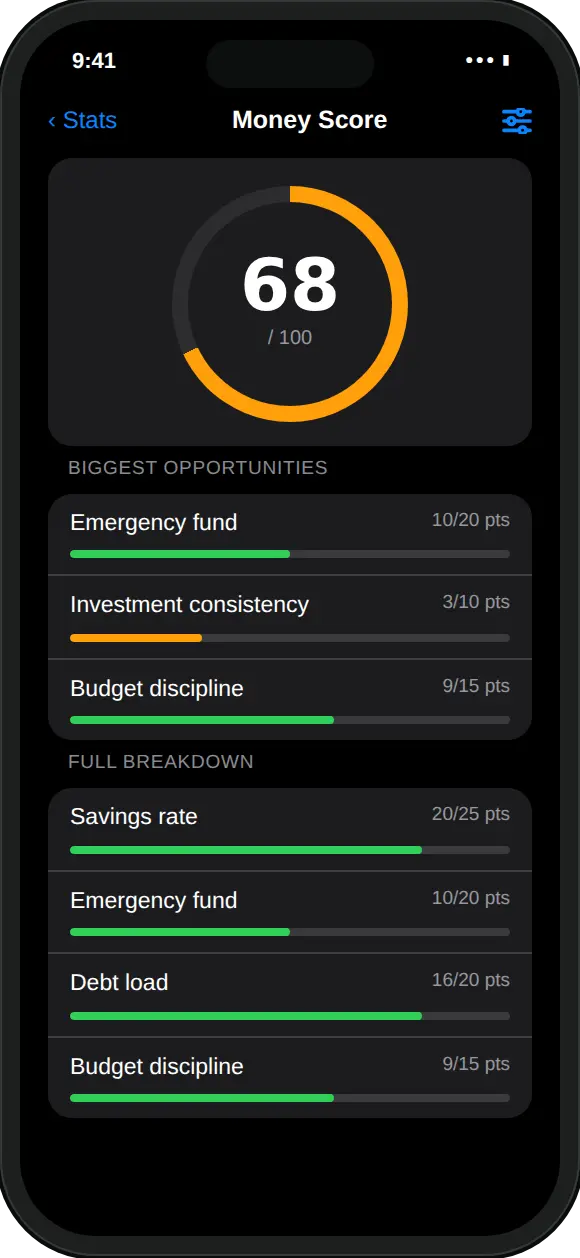
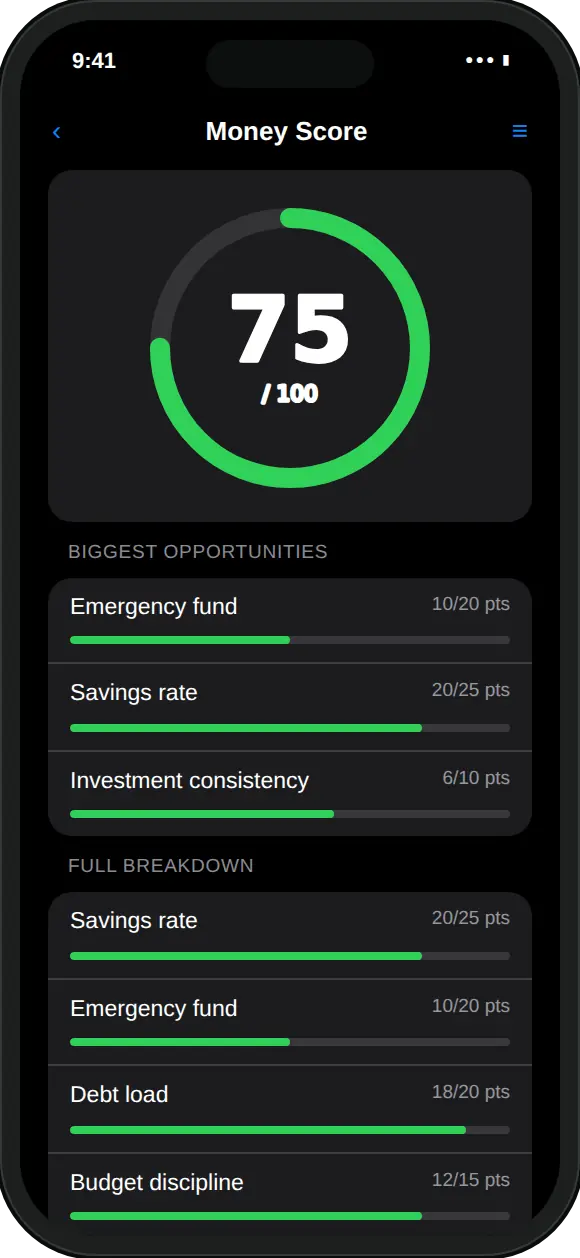
Draft: Your Money Score, what it means and how it is worked out
Claude-Session: https://claude.ai/code/session_01YE2ofZLGiWgQhZvip5Uiy9

diff --git a/blog/money-score-explained.html b/blog/money-score-explained.html
@@ -1,0 +1,345 @@
+<!doctype html>
+<html lang="en-IN">
+<head>
+<meta charset="utf-8">
+<meta name="viewport" content="width=device-width, initial-scale=1">
+<!-- Google tag (gtag.js): website visit counts only. The MoneyOS app itself sends nothing. -->
+<script async src="https://www.googletagmanager.com/gtag/js?id=G-3WFNCXSXRG"></script>
+<script>
+  window.dataLayer = window.dataLayer || [];
+  function gtag(){dataLayer.push(arguments);}
+  gtag('js', new Date());
+  gtag('config', 'G-3WFNCXSXRG');
+</script>
+<title>Money Score: What It Means and How It Is Worked Out</title>
+<meta name="description" content="What the Money Score in MoneyOS measures, the six parts behind it, how each part earns its points, and why it is a fixed formula, not a credit score.">
+<meta name="keywords" content="money score app, money score meaning, financial health score, personal finance score, money score calculation">
+<meta name="robots" content="index, follow, max-image-preview:large">
+<meta name="author" content="MoneyOS">
+<meta name="theme-color" content="#000000">
+<meta name="apple-itunes-app" content="app-id=6796755497">
+
+<link rel="canonical" href="https://rohithhn.github.io/moneyos-site/blog/money-score-explained.html">
+<meta property="og:type" content="article">
+<meta property="og:url" content="https://rohithhn.github.io/moneyos-site/blog/money-score-explained.html">
+<meta property="og:site_name" content="MoneyOS">
+<meta property="og:title" content="Your Money Score: what it means and how it is worked out">
+<meta property="og:description" content="The six parts behind the Money Score, how each earns its points, and why the number comes from a fixed formula on your iPhone.">
+<meta property="og:image" content="https://rohithhn.github.io/moneyos-site/img/blog/og-money-score-explained.jpg">
+<meta property="og:image:width" content="1200">
+<meta property="og:image:height" content="630">
+<meta property="og:image:alt" content="MoneyOS Money Score of 75 out of 100, with Emergency fund, Savings rate and Investment consistency listed as the biggest opportunities">
+<meta property="article:published_time" content="2026-10-31">
+<meta name="twitter:card" content="summary_large_image">
+<meta name="twitter:image" content="https://rohithhn.github.io/moneyos-site/img/blog/og-money-score-explained.jpg">
+<meta name="twitter:title" content="Your Money Score: what it means and how it is worked out">
+<meta name="twitter:description" content="Six parts, one number out of 100, worked out on your iPhone.">
+
+<link rel="icon" type="image/png" href="../img/favicon.png">
+<link rel="apple-touch-icon" href="../img/apple-touch-icon.png">
+<link rel="stylesheet" href="../style.css">
+
+<script type="application/ld+json">
+{
+  "@context": "https://schema.org",
+  "@graph": [
+    {
+      "@type": "BlogPosting",
+      "mainEntityOfPage": "https://rohithhn.github.io/moneyos-site/blog/money-score-explained.html",
+      "headline": "Money Score: What It Means and How It Is Worked Out",
+      "description": "What the Money Score in MoneyOS measures, the six parts behind it, how each part earns its points, and why it is a fixed formula, not a credit score.",
+      "datePublished": "2026-10-31",
+      "dateModified": "2026-10-31",
+      "inLanguage": "en-IN",
+      "image": [
+        "https://rohithhn.github.io/moneyos-site/img/blog/og-money-score-explained.jpg",
+        "https://rohithhn.github.io/moneyos-site/img/blog/screen-money-score.webp",
+        "https://rohithhn.github.io/moneyos-site/img/blog/card-score-parts.webp"
+      ],
+      "author": {
+        "@type": "Organization",
+        "name": "MoneyOS"
+      },
+      "publisher": {
+        "@type": "Organization",
+        "name": "MoneyOS",
+        "logo": {
+          "@type": "ImageObject",
+          "url": "https://rohithhn.github.io/moneyos-site/img/icon-512.png"
+        }
+      },
+      "keywords": "money score app, money score meaning, financial health score, personal finance score, money score calculation"
+    },
+    {
+      "@type": "HowTo",
+      "name": "How to read your Money Score in MoneyOS",
+      "step": [
+        {
+          "@type": "HowToStep",
+          "position": 1,
+          "name": "Open the score",
+          "text": "In the Stats tab, tap the Money Score row under the month's verdict."
+        },
+        {
+          "@type": "HowToStep",
+          "position": 2,
+          "name": "Check it has unlocked",
+          "text": "The score needs at least one income entry and 30 days of history. Until then it says what is missing instead of showing a number."
+        },
+        {
+          "@type": "HowToStep",
+          "position": 3,
+          "name": "Read the biggest opportunities",
+          "text": "The first list shows the three parts where you are leaving the most points on the table."
+        },
+        {
+          "@type": "HowToStep",
+          "position": 4,
+          "name": "Fill in what the ledger cannot see",
+          "text": "Open Score inputs from the top of the Money Score screen or from Settings. Emergency fund, debt-to-income and budget adherence fill themselves in from your net worth, EMIs and monthly limit, and you can set any of them yourself."
+        },
+        {
+          "@type": "HowToStep",
+          "position": 5,
+          "name": "Check back next month",
+          "text": "The score uses your own history, so it changes as your months change, not because the app changed its mind."
+        }
+      ]
+    },
+    {
+      "@type": "FAQPage",
+      "mainEntity": [
+        {
+          "@type": "Question",
+          "name": "What is the Money Score in MoneyOS?",
+          "acceptedAnswer": {
+            "@type": "Answer",
+            "text": "A number from 0 to 100 that sums up six parts of your money: savings rate, emergency fund, debt load, budget discipline, income stability and investment consistency. It is worked out on your iPhone from your own entries."
+          }
+        },
+        {
+          "@type": "Question",
+          "name": "Is the Money Score a credit score?",
+          "acceptedAnswer": {
+            "@type": "Answer",
+            "text": "No. It is not a credit score and it is not shared with any bank or lender. It is a private summary inside the app, worked out from what you have logged."
+          }
+        },
+        {
+          "@type": "Question",
+          "name": "Why does my Money Score say locked?",
+          "acceptedAnswer": {
+            "@type": "Answer",
+            "text": "It needs at least one income entry and 30 days of history. Until then, MoneyOS tells you what is missing rather than showing a number based on too little data."
+          }
+        },
+        {
+          "@type": "Question",
+          "name": "How is the Money Score calculated?",
+          "acceptedAnswer": {
+            "@type": "Answer",
+            "text": "With a fixed formula. Savings rate is worth 25 points, emergency fund 20, debt load 20, budget discipline 15, income stability 10 and investment consistency 10. Each part earns a share of its points, and the total is rounded once at the end."
+          }
+        },
+        {
+          "@type": "Question",
+          "name": "Can AI change my Money Score?",
+          "acceptedAnswer": {
+            "@type": "Answer",
+            "text": "No. The score comes from a fixed, versioned formula. No language model calculates it, so the same entries always give the same number."
+          }
+        },
+        {
+          "@type": "Question",
+          "name": "Is MoneyOS free?",
+          "acceptedAnswer": {
+            "@type": "Answer",
+            "text": "Yes. The whole app is free, with no subscription, no ads and no in-app purchases."
+          }
+        }
+      ]
+    },
+    {
+      "@type": "BreadcrumbList",
+      "itemListElement": [
+        {
+          "@type": "ListItem",
+          "position": 1,
+          "name": "Home",
+          "item": "https://rohithhn.github.io/moneyos-site/"
+        },
+        {
+          "@type": "ListItem",
+          "position": 2,
+          "name": "Blog",
+          "item": "https://rohithhn.github.io/moneyos-site/blog/"
+        },
+        {
+          "@type": "ListItem",
+          "position": 3,
+          "name": "Money Score: What It Means and How It Is Worked Out",
+          "item": "https://rohithhn.github.io/moneyos-site/blog/money-score-explained.html"
+        }
+      ]
+    }
+  ]
+}
+</script>
+</head>
+
+<body class="blog">
+<header class="site blog-head">
+  <a class="brand" href="../index.html"><img src="../img/icon-512.png" alt="" width="34" height="34">MoneyOS</a>
+  <nav><a href="index.html" aria-current="page">Blog</a><a href="../privacy.html">Privacy</a><a href="../support.html">Support</a></nav>
+</header>
+
+<main>
+  <section class="post-hero">
+    <div class="post-hero-copy">
+      <p class="crumbs"><a href="../index.html">Home</a> / <a href="index.html">Blog</a> / Guide</p>
+      <p class="kicker">Guide · 31 October 2026 · 5 min read</p>
+      <h1>Your Money Score: what it means and how it is worked out</h1>
+      <p class="lede">A single number is a quick way to see whether your money is heading the right way,
+      but only if you know what goes into it. The Money Score in MoneyOS is a number from 0 to 100,
+      built from six parts of your finances. Here is what each part measures, how it earns its points,
+      and what the score is not.</p>
+      <a class="store-link" href="https://apps.apple.com/in/app/moneyos-expense-tracker/id6796755497" target="_blank" rel="noopener">
+        <svg class="as" viewBox="0 0 24 24" aria-hidden="true"><defs><linearGradient id="asg" x1="0" y1="0" x2="0" y2="1"><stop offset="0" stop-color="#1ec8fb"/><stop offset="1" stop-color="#1a72f0"/></linearGradient></defs><rect width="24" height="24" rx="5.5" fill="url(#asg)"/><path d="M12.6 6.2 8.3 13.6M11.4 6.2l4.3 7.4M6.5 13.6h11M7.6 17.8l.9-1.5M16.4 17.8l-2.7-4.7" stroke="#fff" stroke-width="1.6" fill="none" stroke-linecap="round"/></svg>
+        Available for iPhone and iPad <span aria-hidden="true">→</span></a>
+    </div>
+    <figure class="post-hero-phone">
+      <img src="../img/blog/screen-money-score.webp" width="580" height="1258" fetchpriority="high"
+           alt="MoneyOS Money Score of 75 out of 100, with Emergency fund, Savings rate and Investment consistency listed as the biggest opportunities">
+    </figure>
+  </section>
+
+  <section class="tldr" aria-label="Summary">
+    <h2>In short</h2>
+    <dl class="tldr-grid">
+      <div><dt>What</dt><dd>A 0 to 100 summary of six parts of your money.</dd></div>
+      <div><dt>Formula</dt><dd>Fixed and versioned. No AI produces it.</dd></div>
+      <div><dt>Unlocks</dt><dd>After one income entry and 30 days of history.</dd></div>
+      <div><dt>Not</dt><dd>A credit score. No bank or lender sees it.</dd></div>
+    </dl>
+  </section>
+
+  <div class="post-layout">
+    <nav class="toc" aria-label="On this page">
+      <p>On this page</p>
+      <ol>
+        <li><a href="#what">What it measures</a></li>
+        <li><a href="#parts">The six parts</a></li>
+        <li><a href="#how-to">Reading your score</a></li>
+        <li><a href="#inputs">Score inputs</a></li>
+        <li><a href="#not">What it is not</a></li>
+        <li><a href="#faq">FAQ</a></li>
+      </ol>
+    </nav>
+
+    <article class="post">
+      <h2 id="what">What does the Money Score measure?</h2>
+      <p class="answer"><strong>It sums up how much you save, how much cushion you have, how much of your
+      income goes to EMIs, and how steady your habits are, as one number out of 100.</strong></p>
+      <p>Any one of these can look fine on its own while another is slipping. A good savings month means
+      less if most of your income is already promised to EMIs, and a big emergency fund matters less if
+      spending keeps running past your limit. The score puts them side by side, so you can see the
+      overall picture and, more usefully, which part is holding it back. It uses only what you have
+      logged in MoneyOS, and it is worked out on your iPhone.</p>
+
+      <h2 id="parts">How is the Money Score calculated?</h2>
+      <p class="answer"><strong>Six parts share 100 points. Each part earns a share of its points
+      depending on how close you are to full marks, and the total is rounded once at the end.</strong></p>
+      <figure class="phone-fig" style="max-width:440px;margin:24px auto">
+        <img src="../img/blog/card-score-parts.webp" width="880" height="878" loading="lazy"
+             alt="How the Money Score is built: savings rate 25 points, emergency fund 20, debt load 20, budget discipline 15, income stability 10, investment consistency 10">
+        <figcaption>The six parts and what earns full marks.</figcaption>
+      </figure>
+      <p><strong>Savings rate (25 points)</strong> is the share of your income you did not spend, with
+      full marks at 30%. <strong>Emergency fund (20)</strong> is how many months of spending your liquid
+      savings would cover, with full marks at 6 months. <strong>Debt load (20)</strong> is your monthly
+      EMIs as a share of income: no EMIs earns full marks, and the points reach zero when EMIs take half
+      your income. <strong>Budget discipline (15)</strong> is the share of recent complete months you
+      stayed within your monthly limit. <strong>Income stability (10)</strong> rewards income that does
+      not swing much from month to month, and needs at least two months of income to judge.
+      <strong>Investment consistency (10)</strong> is the share of months with an investment logged, such
+      as a SIP. Read more on <a href="sip-not-spending.html">tracking SIPs</a> and <a
+      href="track-emi-with-daily-expenses.html">EMIs</a>.</p>
+
+      <h2 id="how-to">How do I read my Money Score?</h2>
+      <div class="split-fig">
+        <div>
+          <p class="answer"><strong>Open it from the Stats tab, then start with the biggest
+          opportunities: they show where the most points are waiting.</strong> Five steps:</p>
+          <ol class="ways">
+            <li><strong>Open the score.</strong> In the Stats tab, tap the Money Score row under the month's verdict.</li>
+            <li><strong>Check it has unlocked.</strong> The score needs at least one income entry and 30 days of history. Until then it says what is missing instead of showing a number.</li>
+            <li><strong>Read the biggest opportunities.</strong> The first list shows the three parts where you are leaving the most points on the table.</li>
+            <li><strong>Fill in what the ledger cannot see.</strong> Open Score inputs from the top of the Money Score screen or from Settings. Emergency fund, debt-to-income and budget adherence fill themselves in from your net worth, EMIs and monthly limit, and you can set any of them yourself.</li>
+            <li><strong>Check back next month.</strong> The score uses your own history, so it changes as your months change, not because the app changed its mind.</li>
+          </ol>
+          <p>In the example, the score is 75. Emergency fund is at 10 of 20 points, so it is the biggest
+          opportunity, worth more than savings rate or investment consistency. The dial is green from
+          70, orange from 40 and red below 40.</p>
+        </div>
+        <figure class="phone-fig">
+          <img src="../img/blog/screen-money-score.webp" width="580" height="1258" loading="lazy"
+               alt="MoneyOS Money Score screen showing 75 out of 100, the biggest opportunities, and the full breakdown by part">
+          <figcaption>Points left on the table come first.</figcaption>
+        </figure>
+      </div>
+
+      <h2 id="inputs">Why does the score ask for score inputs?</h2>
+      <p class="answer"><strong>Three parts need more than your transactions: emergency fund, debt load
+      and budget discipline. MoneyOS fills them in from your own data where it can.</strong></p>
+      <p>Emergency fund fills itself in once you add a savings, FD or cash asset under Net worth. Debt
+      load comes from your EMIs and your logged income. Budget discipline needs a monthly limit, set
+      under Manage and Limits. Where MoneyOS cannot tell, it says the value is not known yet rather than
+      guessing, and you can set any of the three yourself. Your number always wins. See how to <a
+      href="how-to-track-net-worth.html">track your net worth</a>.</p>
+
+      <h2 id="not">What the Money Score is not</h2>
+      <p class="answer"><strong>It is not a credit score, it is not advice, and it is not produced by
+      AI.</strong></p>
+      <p>Banks and lenders never see it. It lives in MoneyOS on your iPhone, with no account and nothing
+      sent to us. It is a summary of your own entries, so it is only as complete as what you log. The
+      formula is fixed and versioned: no language model calculates the number, so the same entries always
+      give the same score, and it never moves because a model changed. If you want a deeper look at a
+      month, try the <a href="monthly-budget-review.html">10-minute monthly review</a>.</p>
+
+      <h2 id="faq">Frequently asked questions</h2>
+      <div class="faq">
+        <details open><summary>What is the Money Score in MoneyOS?</summary>
+          <p>A number from 0 to 100 that sums up six parts of your money: savings rate, emergency fund, debt load, budget discipline, income stability and investment consistency. It is worked out on your iPhone from your own entries.</p></details>
+        <details><summary>Is the Money Score a credit score?</summary>
+          <p>No. It is not a credit score and it is not shared with any bank or lender. It is a private summary inside the app, worked out from what you have logged.</p></details>
+        <details><summary>Why does my Money Score say locked?</summary>
+          <p>It needs at least one income entry and 30 days of history. Until then, MoneyOS tells you what is missing rather than showing a number based on too little data.</p></details>
+        <details><summary>How is the Money Score calculated?</summary>
+          <p>With a fixed formula. Savings rate is worth 25 points, emergency fund 20, debt load 20, budget discipline 15, income stability 10 and investment consistency 10. Each part earns a share of its points, and the total is rounded once at the end.</p></details>
+        <details><summary>Can AI change my Money Score?</summary>
+          <p>No. The score comes from a fixed, versioned formula. No language model calculates it, so the same entries always give the same number.</p></details>
+        <details><summary>Is MoneyOS free?</summary>
+          <p>Yes. The whole app is free, with no subscription, no ads and no in-app purchases.</p></details>
+      </div>
+    </article>
+  </div>
+
+  <section class="cta-box">
+    <div class="cta-copy">
+      <img src="../img/icon-512.png" alt="MoneyOS app icon" width="72" height="72" loading="lazy">
+      <h2>One number, six honest parts.</h2>
+      <p>MoneyOS is free, with no account and no bank login. Your Money Score is worked out on your iPhone.</p>
+      <a class="store-link" href="https://apps.apple.com/in/app/moneyos-expense-tracker/id6796755497" target="_blank" rel="noopener">
+        <svg class="as" viewBox="0 0 24 24" aria-hidden="true"><defs><linearGradient id="asg" x1="0" y1="0" x2="0" y2="1"><stop offset="0" stop-color="#1ec8fb"/><stop offset="1" stop-color="#1a72f0"/></linearGradient></defs><rect width="24" height="24" rx="5.5" fill="url(#asg)"/><path d="M12.6 6.2 8.3 13.6M11.4 6.2l4.3 7.4M6.5 13.6h11M7.6 17.8l.9-1.5M16.4 17.8l-2.7-4.7" stroke="#fff" stroke-width="1.6" fill="none" stroke-linecap="round"/></svg>
+        Available for iPhone and iPad <span aria-hidden="true">→</span></a>
+      <p class="small">Questions? <a href="../support.html">Write to the person who built it.</a></p>
+    </div>
+    <img class="cta-phone" src="../img/blog/screen-money-score.webp" width="580" height="1258" loading="lazy" alt="">
+  </section>
+</main>
+
+<footer class="blog-foot">
+  <a href="../index.html">Home</a><a href="index.html">Blog</a><a href="../privacy.html">Privacy</a><a href="../support.html">Support</a><span>© 2026 MoneyOS</span>
+</footer>
+</body>
+</html>

diff --git a/blog/index.html b/blog/index.html
@@ -38,6 +38,10 @@
  "blogPost": [
   {
    "@type": "BlogPosting",
+   "url": "https://rohithhn.github.io/moneyos-site/blog/money-score-explained.html"
+  },
+  {
+   "@type": "BlogPosting",
    "url": "https://rohithhn.github.io/moneyos-site/blog/expense-tracker-ipad-iphone-sync.html"
   },
   {
@@ -158,6 +162,17 @@
 
   <h1>Blog</h1>
   <p class="lede">Launch notes and guides for keeping your money private.</p>
+
+  <a class="post-card" href="money-score-explained.html">
+    <img src="../img/blog/og-money-score-explained.jpg" width="1200" height="630" alt="MoneyOS Money Score of 75 and its six parts, with the headline Your Money Score, explained">
+    <div class="pc-body">
+      <p class="kicker">Guide · 31 October 2026</p>
+      <h2>Your Money Score: what it means and how it is worked out</h2>
+      <p>The six parts behind the Money Score, how each earns its points, and why the number comes from
+      a fixed formula on your iPhone.</p>
+      <span class="more">Read the guide <span aria-hidden="true">→</span></span>
+    </div>
+  </a>
 
   <a class="post-card" href="expense-tracker-ipad-iphone-sync.html">
     <img src="../img/blog/og-expense-tracker-ipad-iphone-sync.jpg" width="1200" height="630" alt="MoneyOS Settings with iCloud sync on and the headline One ledger on iPad and iPhone">
